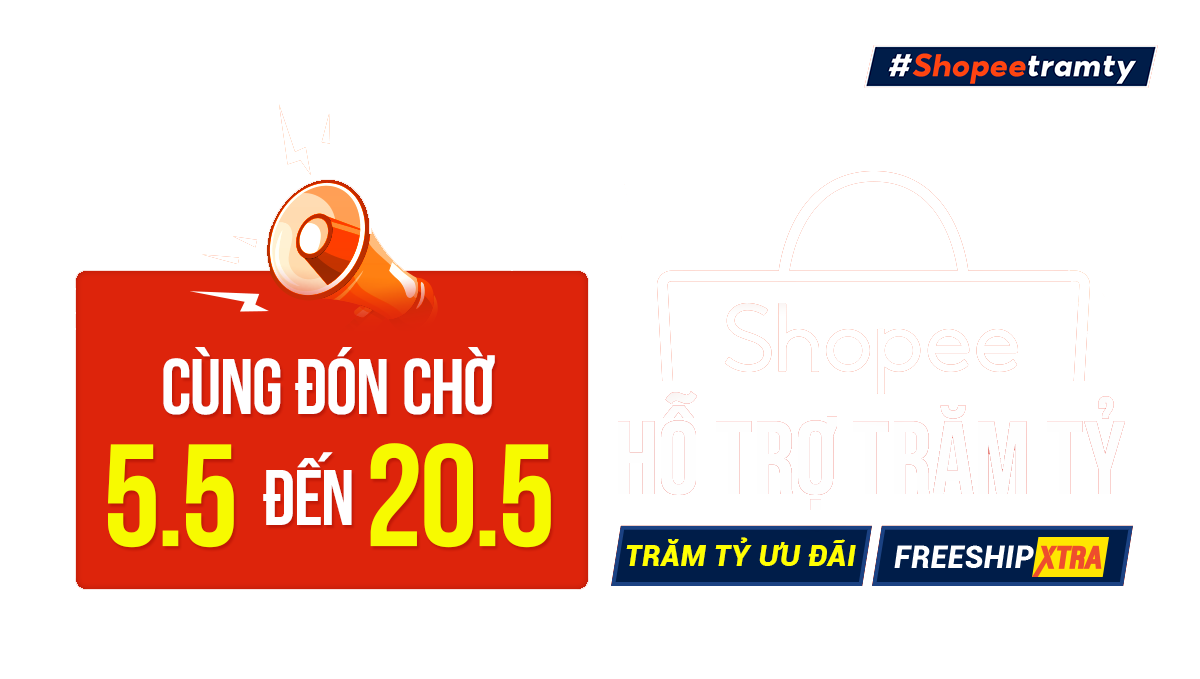
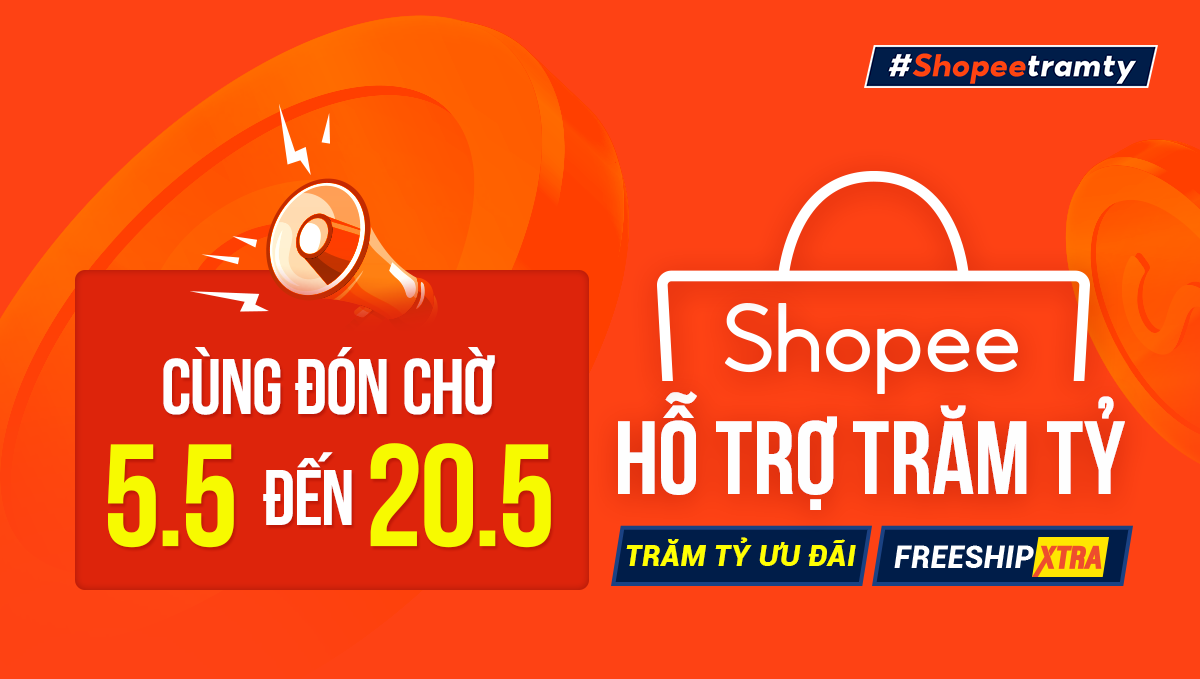
update new theme

diff --git a/tinkhuyenmai.html b/tinkhuyenmai.html
@@ -1353,7 +1353,7 @@
                             <h2>Shopee Sale Tháng 5<a target="_blank" href="https://shorten.asia/GAXwMNeq"><img
                                         class="aligncenter wp-image-2262 size-full"
                                         title="Shopee Siêu Sale Tháng 5 - Trăm Tỷ Ưu Đãi"
-                                        src="img/banner2.png"
+                                        src="img/banner.png"
                                         alt="Shopee Siêu Sale Tháng 5" width="1200" height="679"
                                        ></a></h2>
                             <p style="text-align: justify;">&nbsp; &nbsp; Từ 05/05 đến 20/05 Shopee sẽ bắt đầu chương

diff --git a/index.html b/index.html
@@ -1304,7 +1304,7 @@
             <div class="site-header-wrapper">
                 <div class="site-title-wrapper">
                     <a href="https://sansalemoingay.github.io/" class="custom-logo-link" rel="home"><img width="1080" height="395"
-                            src="img/banner2.png"
+                            src="img/banner.png"
                             class="custom-logo" alt="Mã Giảm Giá Shopee"
                             sizes="(max-width: 1080px) 100vw, 1080px"></a>
                     <div class="site-title"><a href="https://sansalemoingay.github.io/" rel="home">Săn Sale Mỗi Ngày</a></div>
